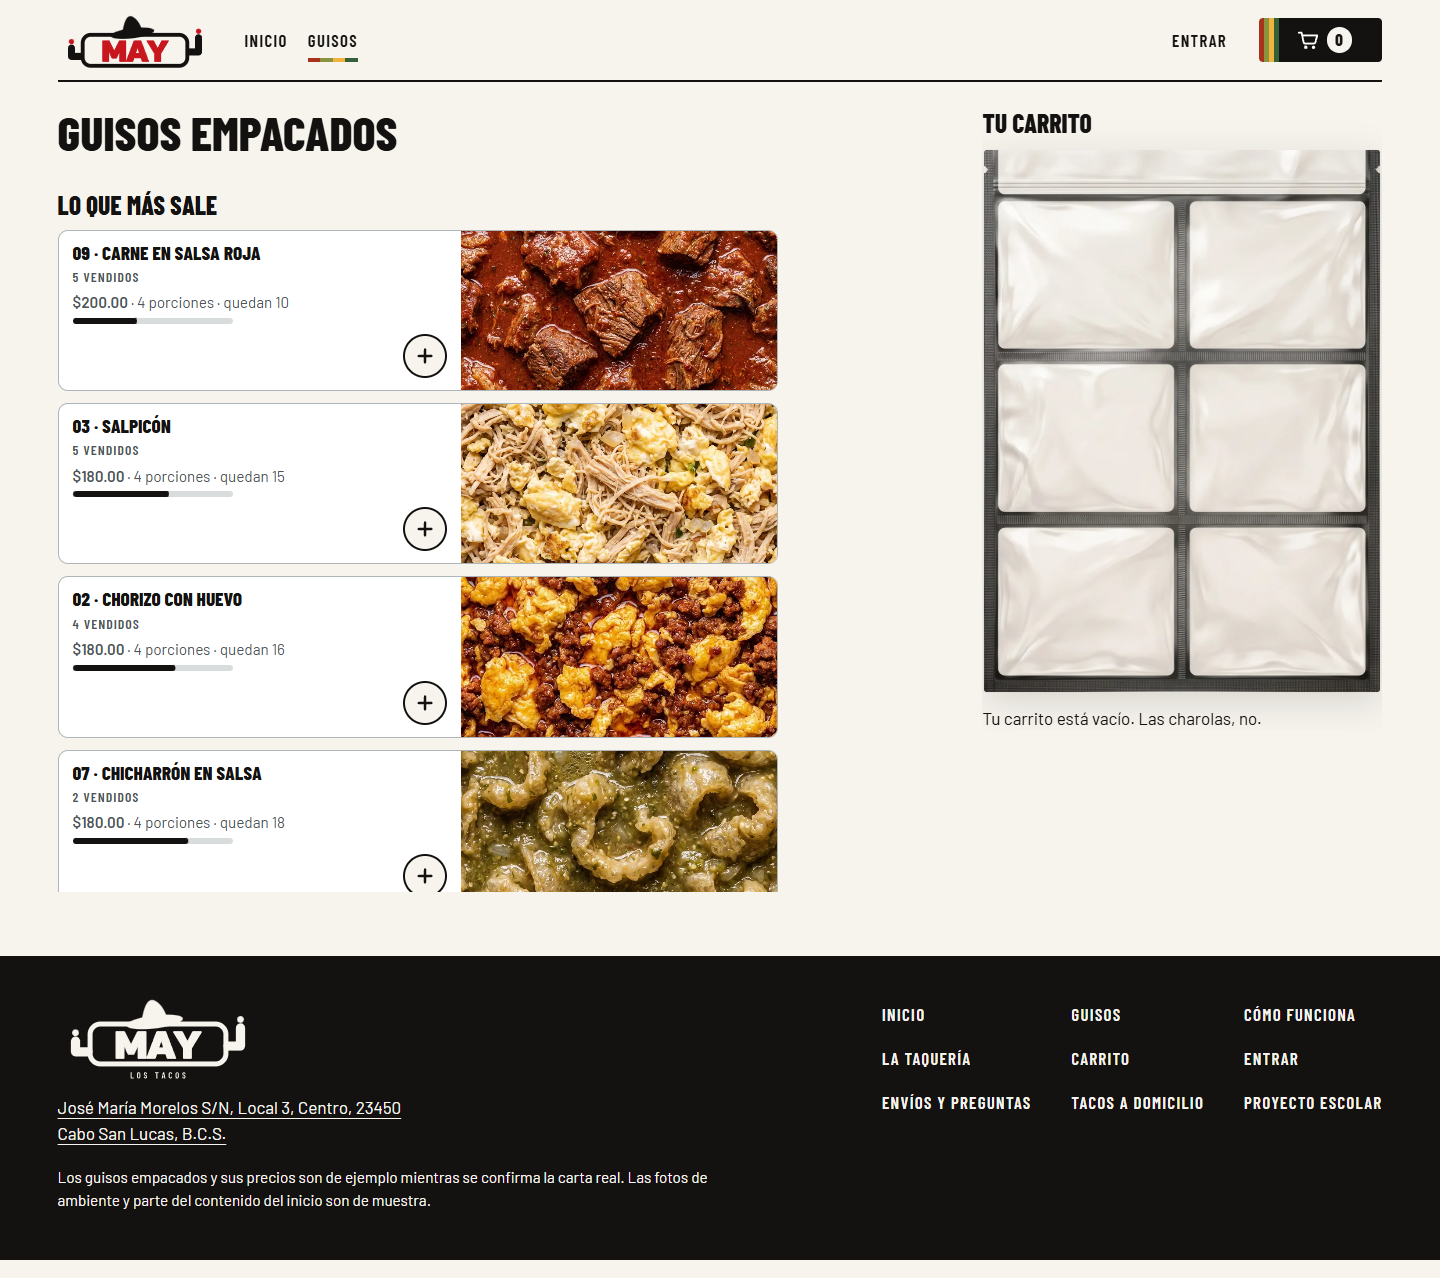
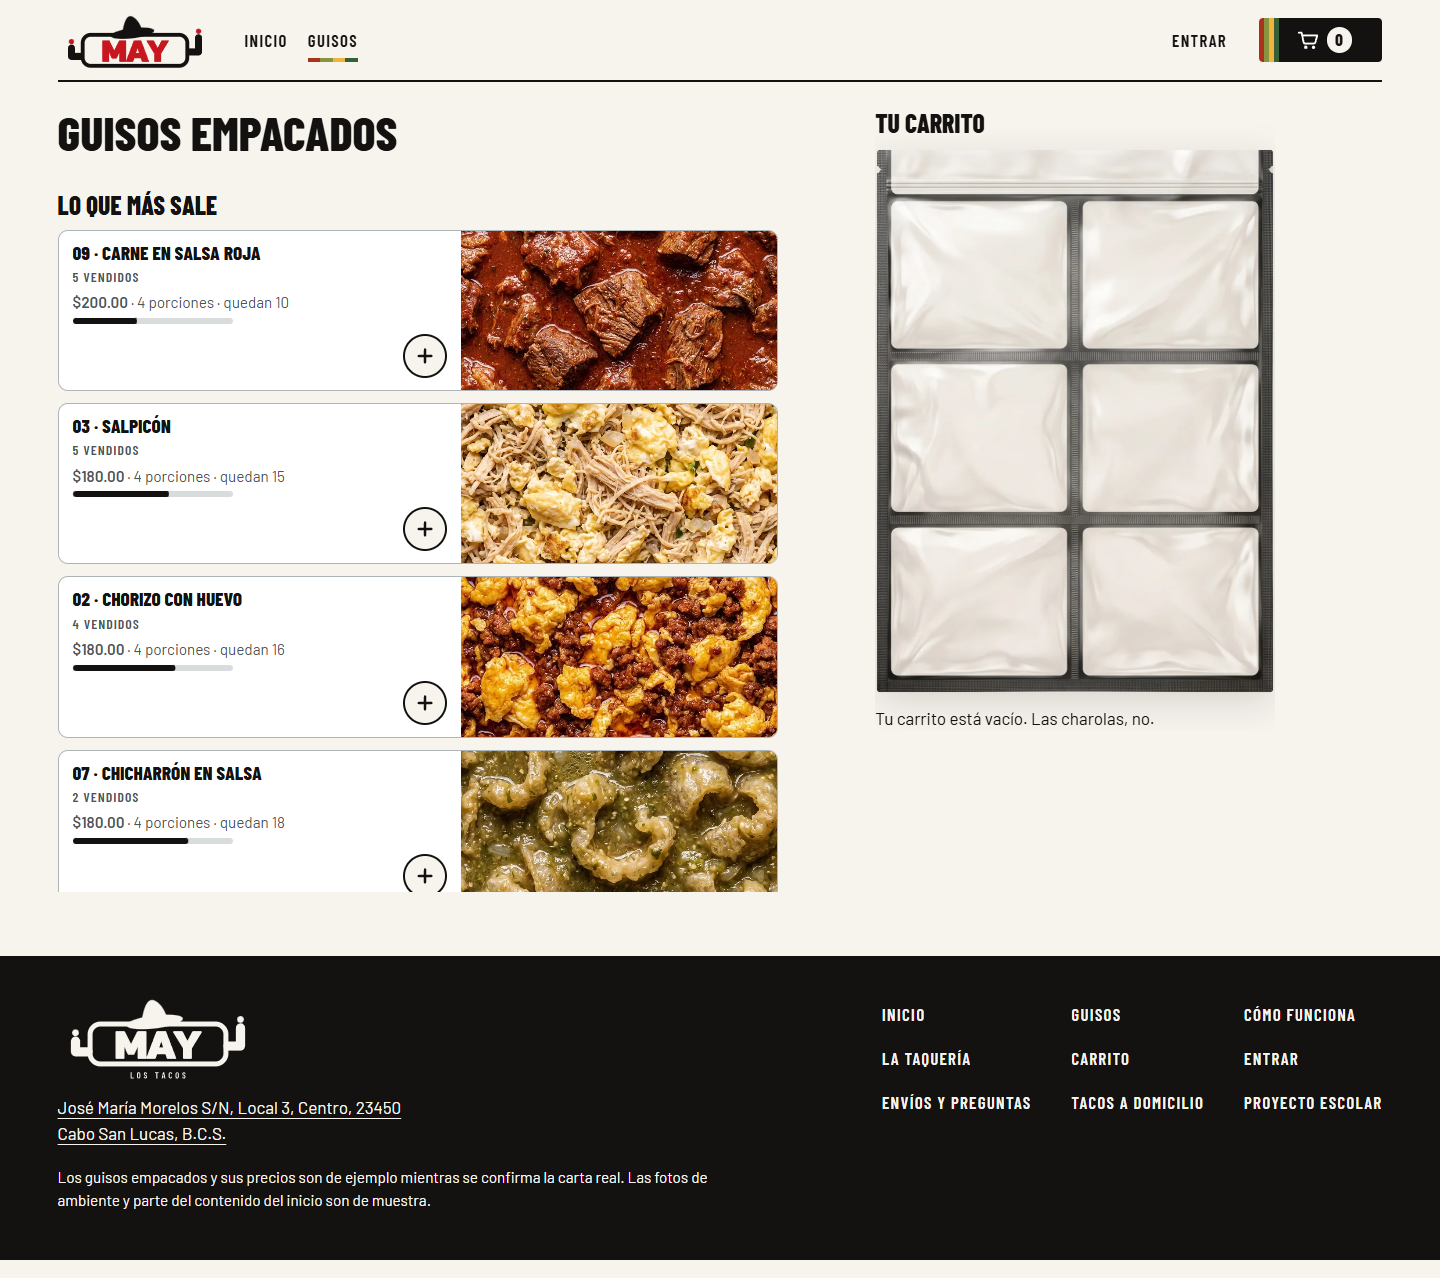
docs(calidad): regresiones corregidas y capturas de todas las páginas a 390, 1234 y 1440

Changed region(s): [[0.5938, 0.0915, 0.9688, 0.5798]]

diff --git a/docs/calidad/critica-diseno.md b/docs/calidad/critica-diseno.md
@@ -108,3 +108,23 @@ convención útil, no adorno.
 **Comprobado** (capturas de `capturas/despues/`, página completa, movimiento reducido): a 390 y a 1440, inicio,
 lista de la tienda, ficha, carrito, entrar y registro; `scrollWidth === innerWidth` en las doce. Pruebas de
 `frontend/` pasando. **No comprobado:** el movimiento (las capturas van sin él) ni en un iPhone de verdad.
+
+## Regresiones de la pasada de sistema (corregidas en `eabfb82` y `9b6ff6a`)
+
+Alejandro las vio en computadora (`capturas/reportes/domicilio-cuenta-encimada.png`, ~1234 px). La pasada de
+sistema tocó las hojas compartidas y no se revisó `/domicilio/`.
+
+| Regresión | Causa | Qué se hizo |
+|---|---|---|
+| Un parche crema encima de «Tu cuenta» en `/domicilio/` | Los chips de sección (`.secciones`) se hicieron de orilla a orilla con margen negativo en la pasada para iPhone, **a todo ancho**. En escritorio se salían 25 px de su columna; con fondo crema, `sticky` y `z-index: 1`, tapaban el principio de «Tacos» y «Envío». | El margen negativo solo en celular (< 900 px). En escritorio los chips no salen de su columna. |
+| Nada compartía el ancho de caja en `/domicilio/` | El aviso tenía el `max-width` de los párrafos; la columna del menú tenía tope de 720 px, así que la cuenta no llegaba a la orilla. | El aviso al ancho de la caja; columna del menú flexible: la cuenta cierra en la orilla de la cabecera y de las rayas. El texto corrido conserva su medida de lectura (60 em). |
+| La raya bajo «Propina» partida en dos | El filo del total iba en `dt` y `dd` por separado; el hueco entre columnas lo cortaba. | El filo del `dt` cruza el hueco (una sola raya). |
+| `/domicilio/` sin las reglas nuevas | No pasó por la crítica. | Una tarjeta (filo gris 1,5 px) para menú, orden, barra, cuenta e historial; formularios y propina con rayas; sin sombra dura en el modo elegido; la franja solo en el botón principal; títulos con la escala compartida. |
+| Tienda en escritorio: la bolsa muy a la derecha y un hueco en medio | El cambio 12 (columna flexible + bolsa de 400 px) separaba lista y bolsa en pantallas anchas. | Lista de hasta 760 px y la bolsa enseguida, alineadas con la cabecera; lo que sobra queda a la derecha, no entre ellas. Comprobado a 1234, 1440 y 1920. |
+| El cierre del inicio, reducido a franja | El cambio 15. A Alejandro le gustaba más el grande. | Vuelve el «Ya está hecho.» grande sobre negro, con la línea y el botón (sin ollas). |
+
+**Regla desde ahora:** después de cada pasada de sistema, antes de publicar, se revisan **todas las páginas que
+usan las hojas compartidas** — `/`, `/tienda/` (lista, ficha, carrito, entrar, registro), `/domicilio/` (menú,
+orden, entrega, pagar, seguimiento), `/proyecto/` y la 404 — a **390, 1234 y 1440**. Las capturas de esta vuelta
+están en `capturas/despues/` (39 pantallas, más la lista de la tienda a 1920); en las 40, `scrollWidth` = ancho
+de la ventana.
